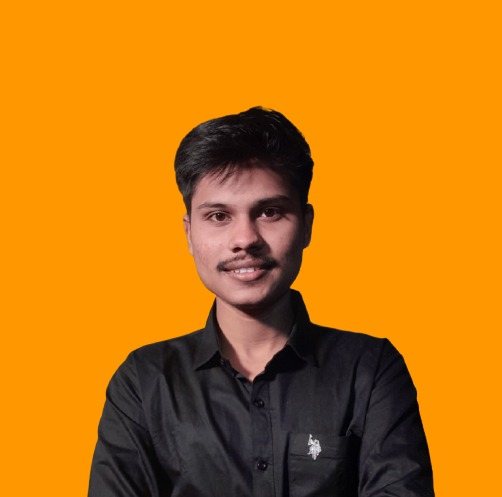
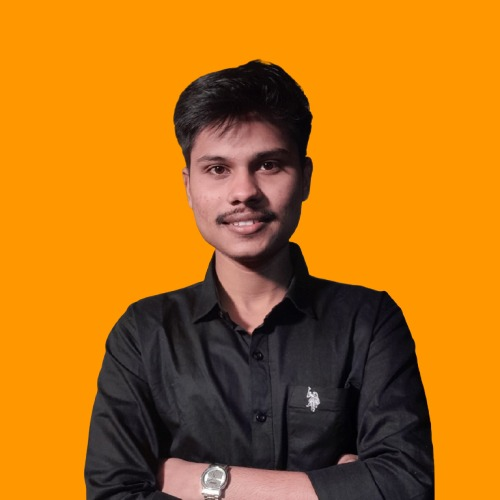
added competition && update profile pic

Changed region(s): [[0.15, 0.1207, 0.87, 1.0]]

diff --git a/src/components/Achievement .jsx b/src/components/Achievement .jsx
@@ -1,34 +1,51 @@
 import React from "react";
-import {useScrollAnimations} from "../custom_hooks/useScrollAnimations"
+import { useScrollAnimations } from "../custom_hooks/useScrollAnimations";
 
 function Achievement() {
-    useScrollAnimations();
+  useScrollAnimations();
   return (
-    <div id="achievements" className="w-full bg-primaryBg mb-5">
+    <div id="competition" className="w-full bg-primaryBg mb-5">
       <h1 className="animate-on-scroll text-center text-primaryTextColor font-bebas md:text-mdHeading text-phoneHeading">
-        Achievements
+        Competition
       </h1>
       <div className="animate-on-scroll flex justify-center items-center md:px-14">
         <div className="flex lg:flex-row md:flex-col sm:flex-col flex-col items-start justify-evenly gap-4">
           <img
             className="rounded-lg object-cover lg:h-[50vh] md:h-[60vh] sm:h-[55vh] h-[32vh] m-auto sm:m-auto md:m-4"
-            src="/achievement/sih.JPG"
+            src="/achievement/mobility_hackathon.jpg"
             alt=""
           />
           <div className="text-secondaryTextColor lg:w-[40vw] md:w-[60vw] sm:w-[70vw] w-[88vw] m-auto flex flex-col items-start justify-start py-4">
             <h3 className="text-secondaryTextColor md:text-3xl text-lg font-semibold mb-2">
-              1<sup>st</sup> Runner Up - Smart India Hackathon 2022
+              Mobility Hackathon 2024
             </h3>
-            <p className="leading-tight md:text-lg text-base">
-              I was part of the team Sustainable Daily, which was recognized as
-              the first runner-up in the Student Innovation category at Smart
-              India Hackathon 2022. Our team developed a prototype to prevent
-              road accidents involving heavy vehicles, showcasing our ability to
-              address critical challenges with innovative solutions. This
-              achievement highlights our commitment to safety and our drive to
-              create impactful, real-world applications. It was an honor to be
-              part of this esteemed competition and contribute to advancements
-              in road safety.
+            <p className="leading-tight md:text-lg text-base">          
+              💡 The Problem: Walkability is a major concern for many Bangalore
+              residents, with uneven sidewalks, poorly maintained streets, and
+              traffic making it difficult for people to walk safely. 
+              <br></br><br></br>
+              ✨ Our Solution? We developed <a
+                href="https://ratemystreet.onlydev.in/"
+                target="_blank"
+                className="text-hoverBg inline-flex gap-1 items-center"
+              >RateMyStreet<svg
+                  xmlns="http://www.w3.org/2000/svg"
+                  fill="none"
+                  viewBox="0 0 24 24"
+                  strokeWidth="1.5"
+                  stroke="currentColor"
+                  className="w-4 h-4 inline-block"
+                >
+                  <path
+                    strokeLinecap="round"
+                    strokeLinejoin="round"
+                    d="M13.19 8.688a4.5 4.5 0 0 1 1.242 7.244l-4.5 4.5a4.5 4.5 0 0 1-6.364-6.364l1.757-1.757m13.35-.622 1.757-1.757a4.5 4.5 0 0 0-6.364-6.364l-4.5 4.5a4.5 4.5 0 0 0 1.242 7.244"
+                  />
+                </svg></a>, a web app that enables users
+              to share reviews of specific streets and view the walkability
+              ratings on an interactive dashboard map. This platform empowers
+              people to make informed decisions about the walkability of streets
+              around them, helping them choose safer routes.
             </p>
           </div>
         </div>

diff --git a/src/components/Hero.jsx b/src/components/Hero.jsx
@@ -42,13 +42,16 @@ function Hero() {
             ))}
           </h1>
           {/* <h1 className="tracking-tighter hidden md:block">——</h1> */}
-          <h1 className="tracking-tighter mr-36">
+          <h1 className="tracking-tighter mr-36 p-4">
             {/* {Array.from("STACK").map((letter, index) => (
               <span key={index} className="hover:text-secondaryTextColor">
                 {letter}
               </span>
             ))} */}
-            <img src="/profile.jpg" width="300px" className="rounded-full" />
+
+            <a href="https://www.linkedin.com/in/nayan-4b2b61249" target="_blank">
+            <img src="/profile.jpg" width="300px" className="rounded-full shadow-lg shadow-hoverBg p-0 hover:p-2 transition-all duration-500 cursor-pointer" />
+          </a>
           </h1>
         </div>
       </div>
@@ -68,7 +71,7 @@ function Hero() {
               dynamic, responsive and visually appealing websites. With
               expertise in <span className="text-hoverBg">JavaScript</span>,{" "}
               <span className="text-hoverBg">Vue</span> and{" "}
-              <span className="text-hoverBg">MERN stack</span>.
+              <span className="text-hoverBg">MERN stack</span>.<br></br>
                I focus on
               delivering seamless functionality and engaging user experiences.
             </p>

diff --git a/src/components/Menu.jsx b/src/components/Menu.jsx
@@ -31,7 +31,7 @@ function Menu() {
       <div className="text-primaryTextColor font-bebas text-phoneHeading md:text-smHeading md:leading-none md:p-5 pr-2 text-right">
         <h2 className="menu-items md:mr-20 hover:text-hoverBg cursor-pointer" onClick={()=>scrollToSection("projects")}>Projects</h2>
         <h2 className="menu-items md:mr-20 hover:text-hoverBg cursor-pointer" onClick={()=>scrollToSection("experience")}>Experience</h2>
-        <h2 className="menu-items md:mr-20 hover:text-hoverBg cursor-pointer" onClick={()=>scrollToSection("achievements")}>Achievements</h2>
+        <h2 className="menu-items md:mr-20 hover:text-hoverBg cursor-pointer" onClick={()=>scrollToSection("competition")}>Competition</h2>
         <h2 className="menu-items md:mr-20 hover:text-hoverBg cursor-pointer" onClick={()=>scrollToSection("contact")}>Contact</h2>
       </div>
     </div>

diff --git a/src/components/Footer.jsx b/src/components/Footer.jsx
@@ -9,7 +9,7 @@ function Footer() {
   const date = new Date();
   return (
     <footer className="p-5">
-      <div className="grid  lg:grid-cols-3 md:grid-cols-1 sm:grid-cols-1 md:justify-between gap-y-3">
+      <div className="grid lg:grid-cols-3 md:grid-cols-1 sm:grid-cols-1 md:justify-between gap-y-3">
         <div className="flex items-end justify-center lg:justify-start md:order-1 order-3">
           <p className="text-secondaryTextColor font-semibold text-center lg:text-start ">
             <FontAwesomeIcon color="#777777" icon={faCopyright} />{" "}

diff --git a/src/components/Work.jsx b/src/components/Work.jsx
@@ -28,7 +28,7 @@ function Work() {
         />
         {/* Sudoyantra Dashboard */}
         <ProjectCard
-        img="sudo.png"
+        img="sudo.jpg"
         url="https://www.linkedin.com/in/nayan-4b2b61249/details/projects/"
         title="Sudoyantra Dashboard"
         skill1="Vue3"
